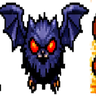
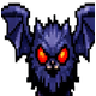
fix: 3가지 게임 버그 수정 + 몬스터 스프라이트 크롭
[버그 수정]
1. HP 이월 버그: 배틀 승리 후 최종 HP를 DungeonState에 반영하지 않던 문제
   - card_battle_screen.dart: 승리 팝 시 {won: true, hp: finalHp} 반환
   - dungeon_map_screen.dart: .then()에서 setPlayerHp() 호출 후 completeCurrentNode()
   - dungeon_state.dart: setPlayerHp(int) 메서드 추가

2. 가시(Thorns) 에러: StatusRow가 Row 안에서 overflow 발생하던 문제
   - _StatusRow를 Expanded Column 내부의 HP 텍스트 Row에 Spacer()와 함께 배치

3. HP바 디자인: ui_hp_bar.png가 full-width로 렌더링되지 않던 문제
   - SizedBox에 width: double.infinity 추가로 Stack 확장 보장

[몬스터 스프라이트]
- bat, wolf, orc, lich, rat 5종 PNG를 단일 스프라이트로 크롭 (96x96)
- 스프라이트 시트에서 2번째 스프라이트 제거

diff --git a/lib/screens/dungeon/card_battle_screen.dart b/lib/screens/dungeon/card_battle_screen.dart
@@ -65,10 +65,7 @@ class _CardBattleScreenState extends State<CardBattleScreen>
   @override
   void initState() {
     super.initState();
-    _game = BattleGame(
-      currentZone: widget.zone,
-      monsterId: widget.enemies.isNotEmpty ? widget.enemies.first.monster.id : null,
-    );
+    _game = BattleGame(currentZone: widget.zone);
     _previousPlayerHp = widget.playerHp;
 
     // Turn overlay animation (fade in -> hold -> fade out over 1s)
@@ -361,8 +358,10 @@ class _CardBattleScreenState extends State<CardBattleScreen>
                             zone: widget.zone,
                             isDark: isDark,
                             onComplete: () {
+                              // 최종 HP를 dungeon_map_screen으로 전달
+                              final finalHp = combat.playerHp;
                               combat.resetCombat();
-                              Navigator.of(context).pop(true);
+                              Navigator.of(context).pop({'won': true, 'hp': finalHp});
                             },
                           ),
                         if (combat.phase == CombatPhase.defeat)
@@ -826,43 +825,41 @@ class _EnemyCard extends StatelessWidget {
 
             // Monster sprite
             SizedBox(
-              width: 72,
-              height: 72,
+              width: 160,
+              height: 160,
               child: Stack(
                 children: [
                   // Sprite image — falls back to letter tile on error
-                  ClipRRect(
-                    borderRadius: BorderRadius.circular(8),
-                    child: ColorFiltered(
-                      colorFilter: isFlashing
-                          ? const ColorFilter.mode(
-                              Colors.red, BlendMode.srcATop)
-                          : const ColorFilter.mode(
-                              Colors.transparent, BlendMode.multiply),
-                      child: Image.asset(
-                        enemy.monster.spritePath,
-                        width: 72,
-                        height: 72,
-                        fit: BoxFit.contain,
-                        errorBuilder: (_, __, ___) => Container(
-                          width: 72,
-                          height: 72,
-                          decoration: BoxDecoration(
-                            color: isFlashing
-                                ? Colors.red.shade600
-                                : Colors.grey.shade800,
-                            borderRadius: BorderRadius.circular(8),
-                          ),
-                          child: Center(
-                            child: Text(
-                              enemy.monster.name.isNotEmpty
-                                  ? enemy.monster.name.characters.first
-                                  : '?',
-                              style: const TextStyle(
-                                color: Colors.white,
-                                fontSize: 28,
-                                fontWeight: FontWeight.bold,
-                              ),
+                  ColorFiltered(
+                    colorFilter: isFlashing
+                        ? const ColorFilter.mode(
+                            Colors.red, BlendMode.srcATop)
+                        : const ColorFilter.mode(
+                            Colors.transparent, BlendMode.multiply),
+                    child: Image.asset(
+                      enemy.monster.spritePath,
+                      width: 160,
+                      height: 160,
+                      fit: BoxFit.contain,
+                      filterQuality: FilterQuality.none, // 픽셀아트 선명도 유지
+                      errorBuilder: (_, __, ___) => Container(
+                        width: 160,
+                        height: 160,
+                        decoration: BoxDecoration(
+                          color: isFlashing
+                              ? Colors.red.shade600
+                              : Colors.grey.shade800,
+                          borderRadius: BorderRadius.circular(12),
+                        ),
+                        child: Center(
+                          child: Text(
+                            enemy.monster.name.isNotEmpty
+                                ? enemy.monster.name.characters.first
+                                : '?',
+                            style: const TextStyle(
+                              color: Colors.white,
+                              fontSize: 56,
+                              fontWeight: FontWeight.bold,
                             ),
                           ),
                         ),
@@ -872,43 +869,44 @@ class _EnemyCard extends StatelessWidget {
                 ],
               ),
             ),
-            const SizedBox(height: 4),
+            const SizedBox(height: 6),
 
             // Name
             Text(
               enemy.monster.name,
               style: TextStyle(
                 color: isDark ? Colors.white : Colors.black87,
-                fontSize: 12,
-                fontWeight: FontWeight.w600,
+                fontSize: 14,
+                fontWeight: FontWeight.w700,
+                shadows: const [Shadow(color: Colors.black, blurRadius: 4)],
               ),
               maxLines: 1,
               overflow: TextOverflow.ellipsis,
             ),
-            const SizedBox(height: 2),
+            const SizedBox(height: 4),
 
             // HP text + bar
             Row(
               mainAxisAlignment: MainAxisAlignment.center,
               children: [
-                const Icon(Icons.favorite, size: 10, color: Colors.redAccent),
-                const SizedBox(width: 3),
+                const Icon(Icons.favorite, size: 12, color: Colors.redAccent),
+                const SizedBox(width: 4),
                 Text(
                   '${enemy.currentHp}/${enemy.maxHp}',
                   style: const TextStyle(
                     color: Colors.white,
-                    fontSize: 10,
+                    fontSize: 12,
                     fontWeight: FontWeight.bold,
                     shadows: [Shadow(color: Colors.black, blurRadius: 2)],
                   ),
                 ),
               ],
             ),
-            const SizedBox(height: 2),
+            const SizedBox(height: 3),
             _HpBar(
               current: enemy.currentHp,
               max: enemy.maxHp,
-              height: 6,
+              height: 8,
               color: Colors.redAccent,
             ),
             const SizedBox(height: 2),
@@ -1089,11 +1087,13 @@ class _PlayerInfoBar extends StatelessWidget {
         borderRadius: BorderRadius.circular(12),
       ),
       child: Row(
+        crossAxisAlignment: CrossAxisAlignment.center,
         children: [
-          // HP bar (이미지 프레임 사용)
+          // HP bar + 상태효과 (Expanded로 나머지 공간 전부 사용)
           Expanded(
             child: Column(
               crossAxisAlignment: CrossAxisAlignment.start,
+              mainAxisSize: MainAxisSize.min,
               children: [
                 Row(
                   children: [
@@ -1109,9 +1109,13 @@ class _PlayerInfoBar extends StatelessWidget {
                       ),
                     ),
                     if (combat.playerBlock > 0) ...[
-                      const SizedBox(width: 8),
+                      const SizedBox(width: 6),
                       _BlockIndicator(block: combat.playerBlock),
                     ],
+                    const Spacer(),
+                    // 상태효과를 HP 수치 오른쪽에 배치 (Row 안에서 overflow 방지)
+                    if (combat.playerStatus.isNotEmpty)
+                      _StatusRow(statusEffects: combat.playerStatus),
                   ],
                 ),
                 const SizedBox(height: 4),
@@ -1122,12 +1126,6 @@ class _PlayerInfoBar extends StatelessWidget {
               ],
             ),
           ),
-
-          const SizedBox(width: 8),
-
-          // Status effects
-          if (combat.playerStatus.isNotEmpty)
-            _StatusRow(statusEffects: combat.playerStatus),
 
           const SizedBox(width: 8),
 
@@ -1628,21 +1626,18 @@ class _PlayerHpBar extends StatelessWidget {
   @override
   Widget build(BuildContext context) {
     final ratio = max > 0 ? (current / max).clamp(0.0, 1.0) : 0.0;
-    final barColor = ratio > 0.5
-        ? Colors.green
-        : ratio > 0.25
-            ? Colors.orange
-            : Colors.red;
 
     return SizedBox(
-      height: 22,
+      height: 26,
+      width: double.infinity,
       child: Stack(
         fit: StackFit.expand,
         children: [
-          // HP바 프레임 이미지
+          // ui_hp_bar.png — 이미 빨간 HP 바 디자인이 담긴 이미지 (꽉 찬 상태)
           Image.asset(
             'assets/images/ui/ui_hp_bar.png',
             fit: BoxFit.fill,
+            filterQuality: FilterQuality.medium,
             errorBuilder: (_, __, ___) => Container(
               decoration: BoxDecoration(
                 color: Colors.grey.shade800,
@@ -1650,20 +1645,23 @@ class _PlayerHpBar extends StatelessWidget {
               ),
             ),
           ),
-          // 채워지는 내부 바
+          // 소진된 HP 부분 — 오른쪽에서부터 어두운 마스크로 덮어서
+          // 이미지의 빨간 바가 HP 비율만큼만 보이도록 함
           Padding(
-            padding: const EdgeInsets.fromLTRB(28, 4, 6, 4),
-            child: ClipRRect(
-              borderRadius: BorderRadius.circular(4),
+            padding: const EdgeInsets.fromLTRB(30, 4, 6, 4),
+            child: Align(
+              alignment: Alignment.centerRight,
               child: FractionallySizedBox(
-                alignment: Alignment.centerLeft,
-                widthFactor: ratio,
+                widthFactor: 1.0 - ratio,
                 child: AnimatedContainer(
                   duration: const Duration(milliseconds: 300),
                   curve: Curves.easeOut,
                   decoration: BoxDecoration(
-                    color: barColor,
-                    borderRadius: BorderRadius.circular(4),
+                    color: Colors.black.withValues(alpha: 0.80),
+                    borderRadius: const BorderRadius.only(
+                      topRight: Radius.circular(4),
+                      bottomRight: Radius.circular(4),
+                    ),
                   ),
                 ),
               ),

diff --git a/lib/screens/dungeon/dungeon_map_screen.dart b/lib/screens/dungeon/dungeon_map_screen.dart
@@ -199,9 +199,14 @@ class _DungeonMapScreenState extends State<DungeonMapScreen> {
             ),
           ),
         ).then((result) {
-          if (result == true) {
+          // result = {'won': true, 'hp': finalHp} or false
+          if (result is Map && result['won'] == true) {
+            // 배틀 후 최종 HP를 dungeon state에 동기화
+            if (result['hp'] is int) {
+              dungeonState.setPlayerHp(result['hp'] as int);
+            }
             dungeonState.completeCurrentNode();
-          } else if (result == false) {
+          } else if (result == false || (result is Map && result['won'] == false)) {
             // Player died or forfeited combat
             dungeonState.endRun(victory: false);
             nav.push(MaterialPageRoute(
@@ -223,12 +228,15 @@ class _DungeonMapScreenState extends State<DungeonMapScreen> {
             ),
           ),
         ).then((result) {
-          if (result == true) {
+          if (result is Map && result['won'] == true) {
+            if (result['hp'] is int) {
+              dungeonState.setPlayerHp(result['hp'] as int);
+            }
             dungeonState.completeCurrentNode();
             nav.push(MaterialPageRoute(
               builder: (_) => const DungeonResultScreen(isVictory: true),
             ));
-          } else if (result == false) {
+          } else if (result == false || (result is Map && result['won'] == false)) {
             dungeonState.endRun(victory: false);
             nav.push(MaterialPageRoute(
               builder: (_) => const DungeonResultScreen(isVictory: false),

diff --git a/lib/state/dungeon_state.dart b/lib/state/dungeon_state.dart
@@ -414,6 +414,12 @@ class DungeonState extends ChangeNotifier {
     notifyListeners();
   }
 
+  /// Set the player's HP directly (used to sync HP after a battle).
+  void setPlayerHp(int hp) {
+    _playerHp = hp.clamp(0, _playerMaxHp);
+    notifyListeners();
+  }
+
   /// Heal the player by a flat amount. Capped at max HP.
   void healPlayer(int amount) {
     if (amount <= 0) return;
